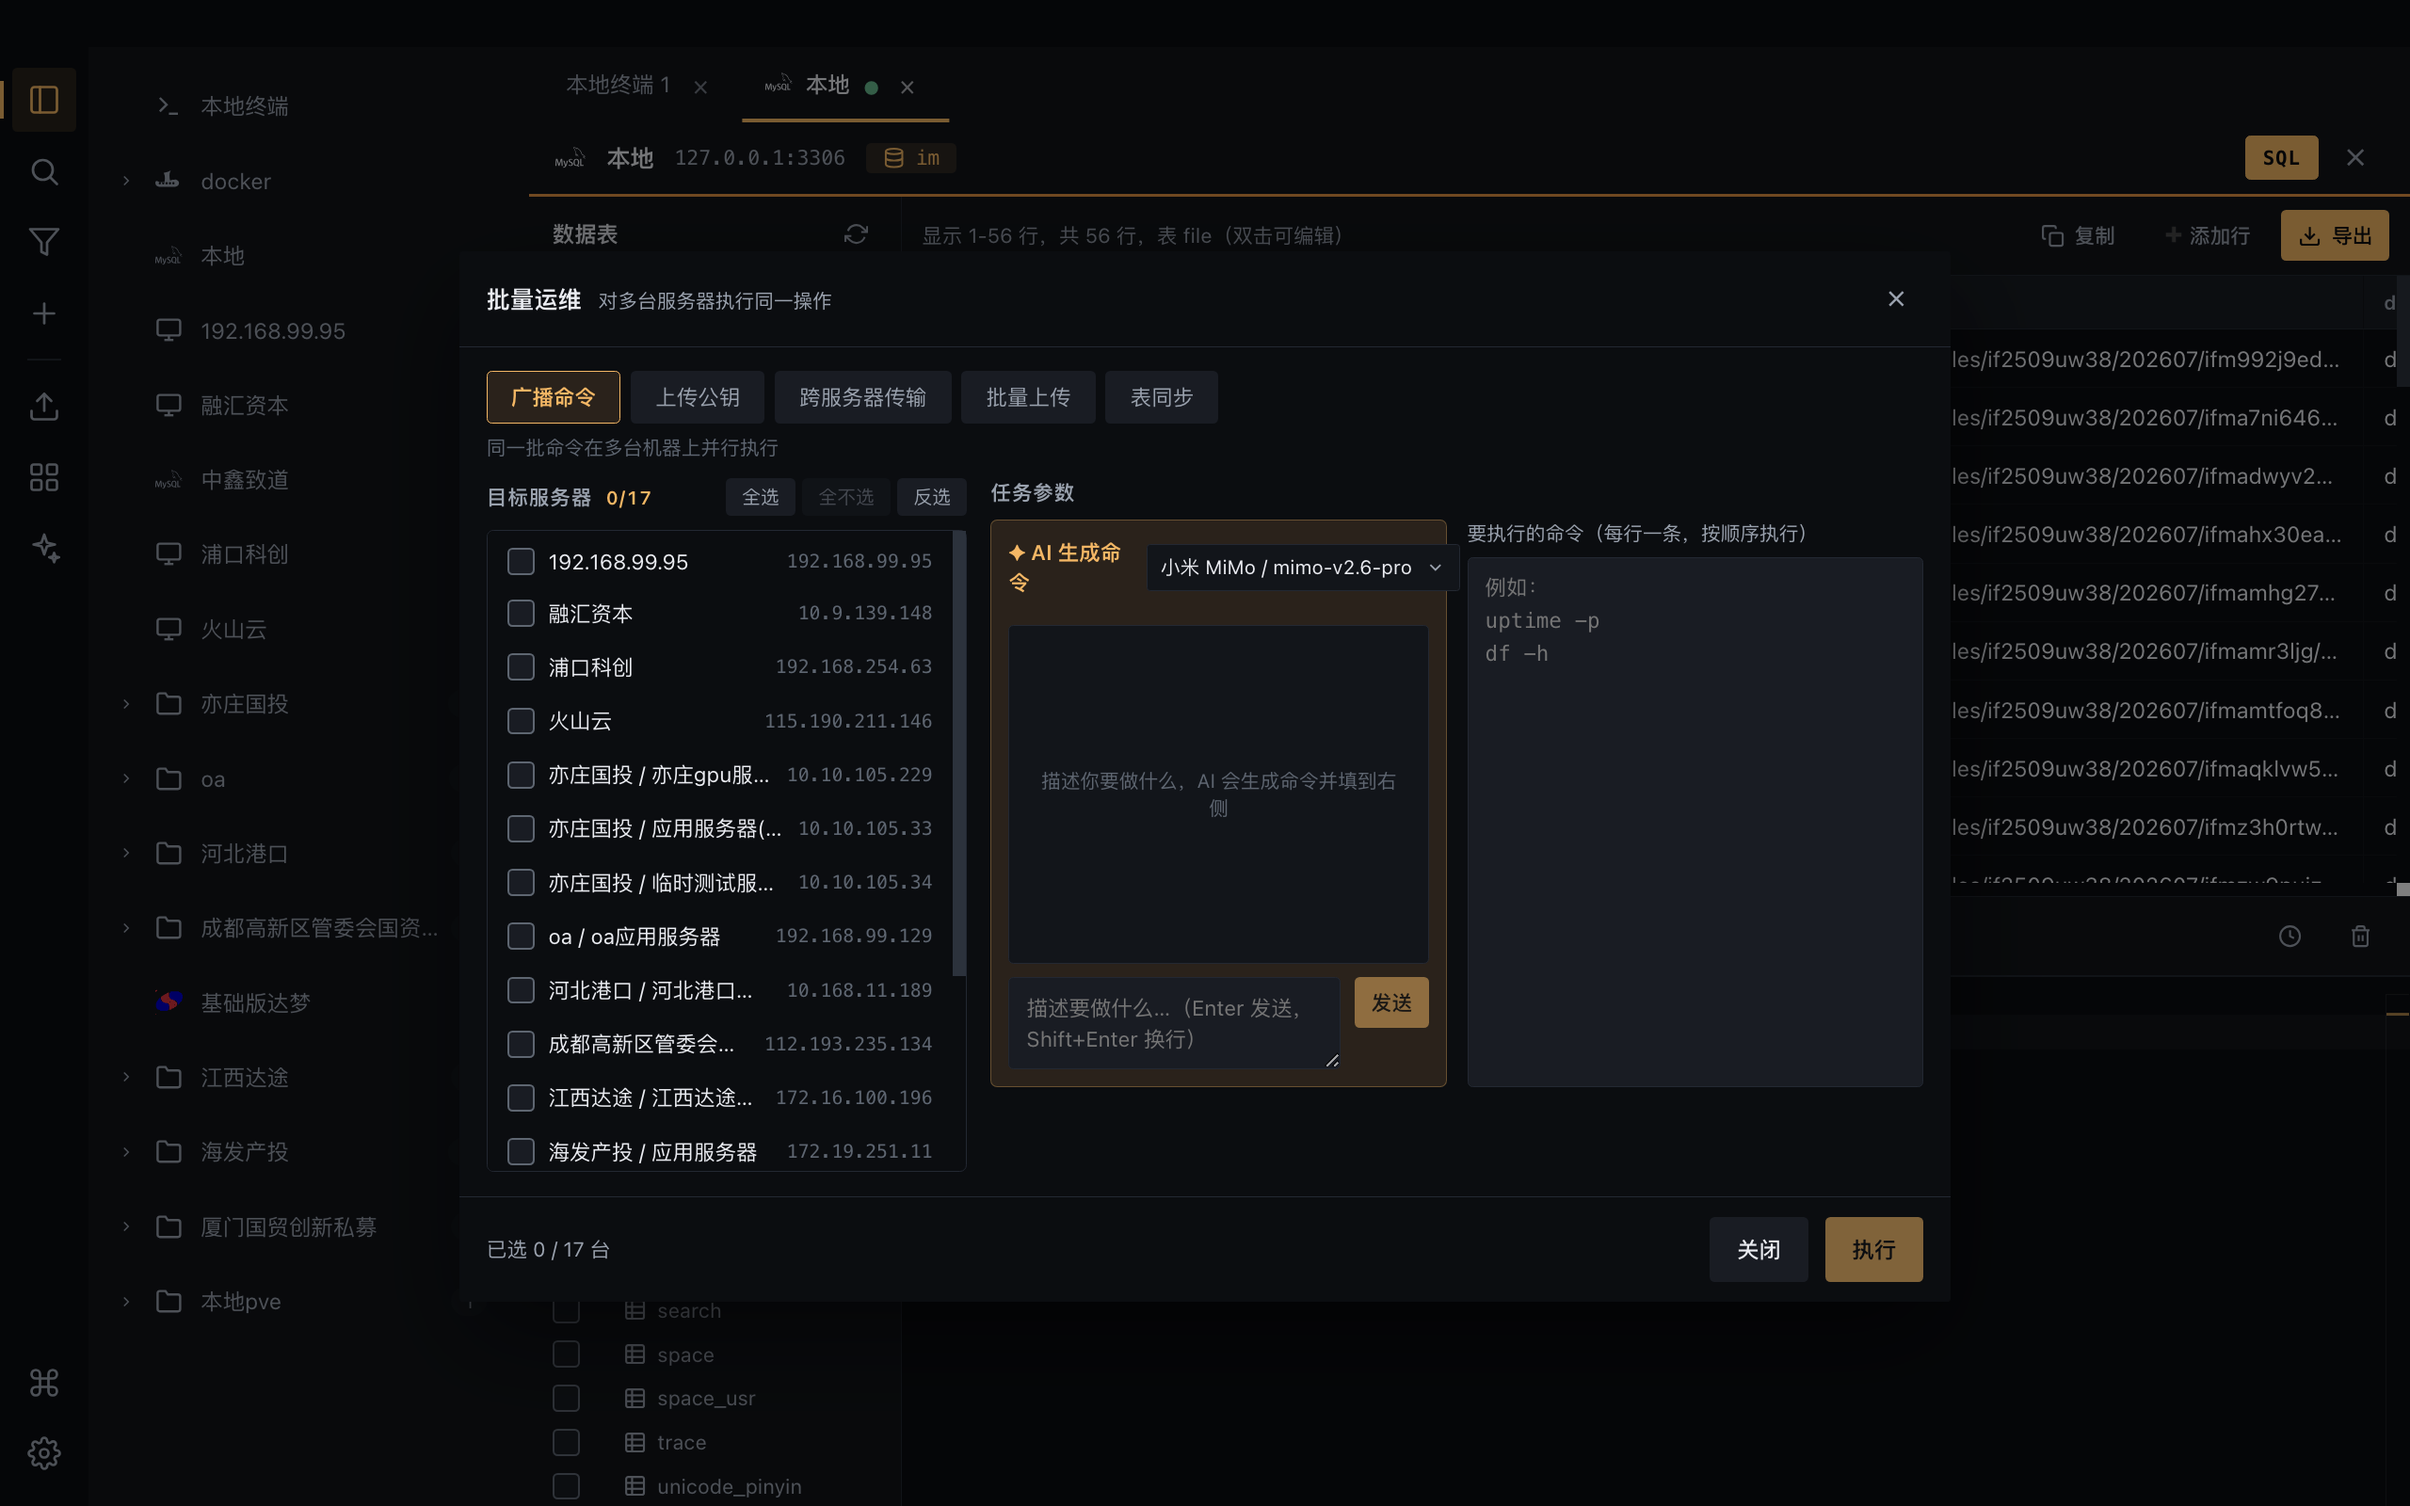
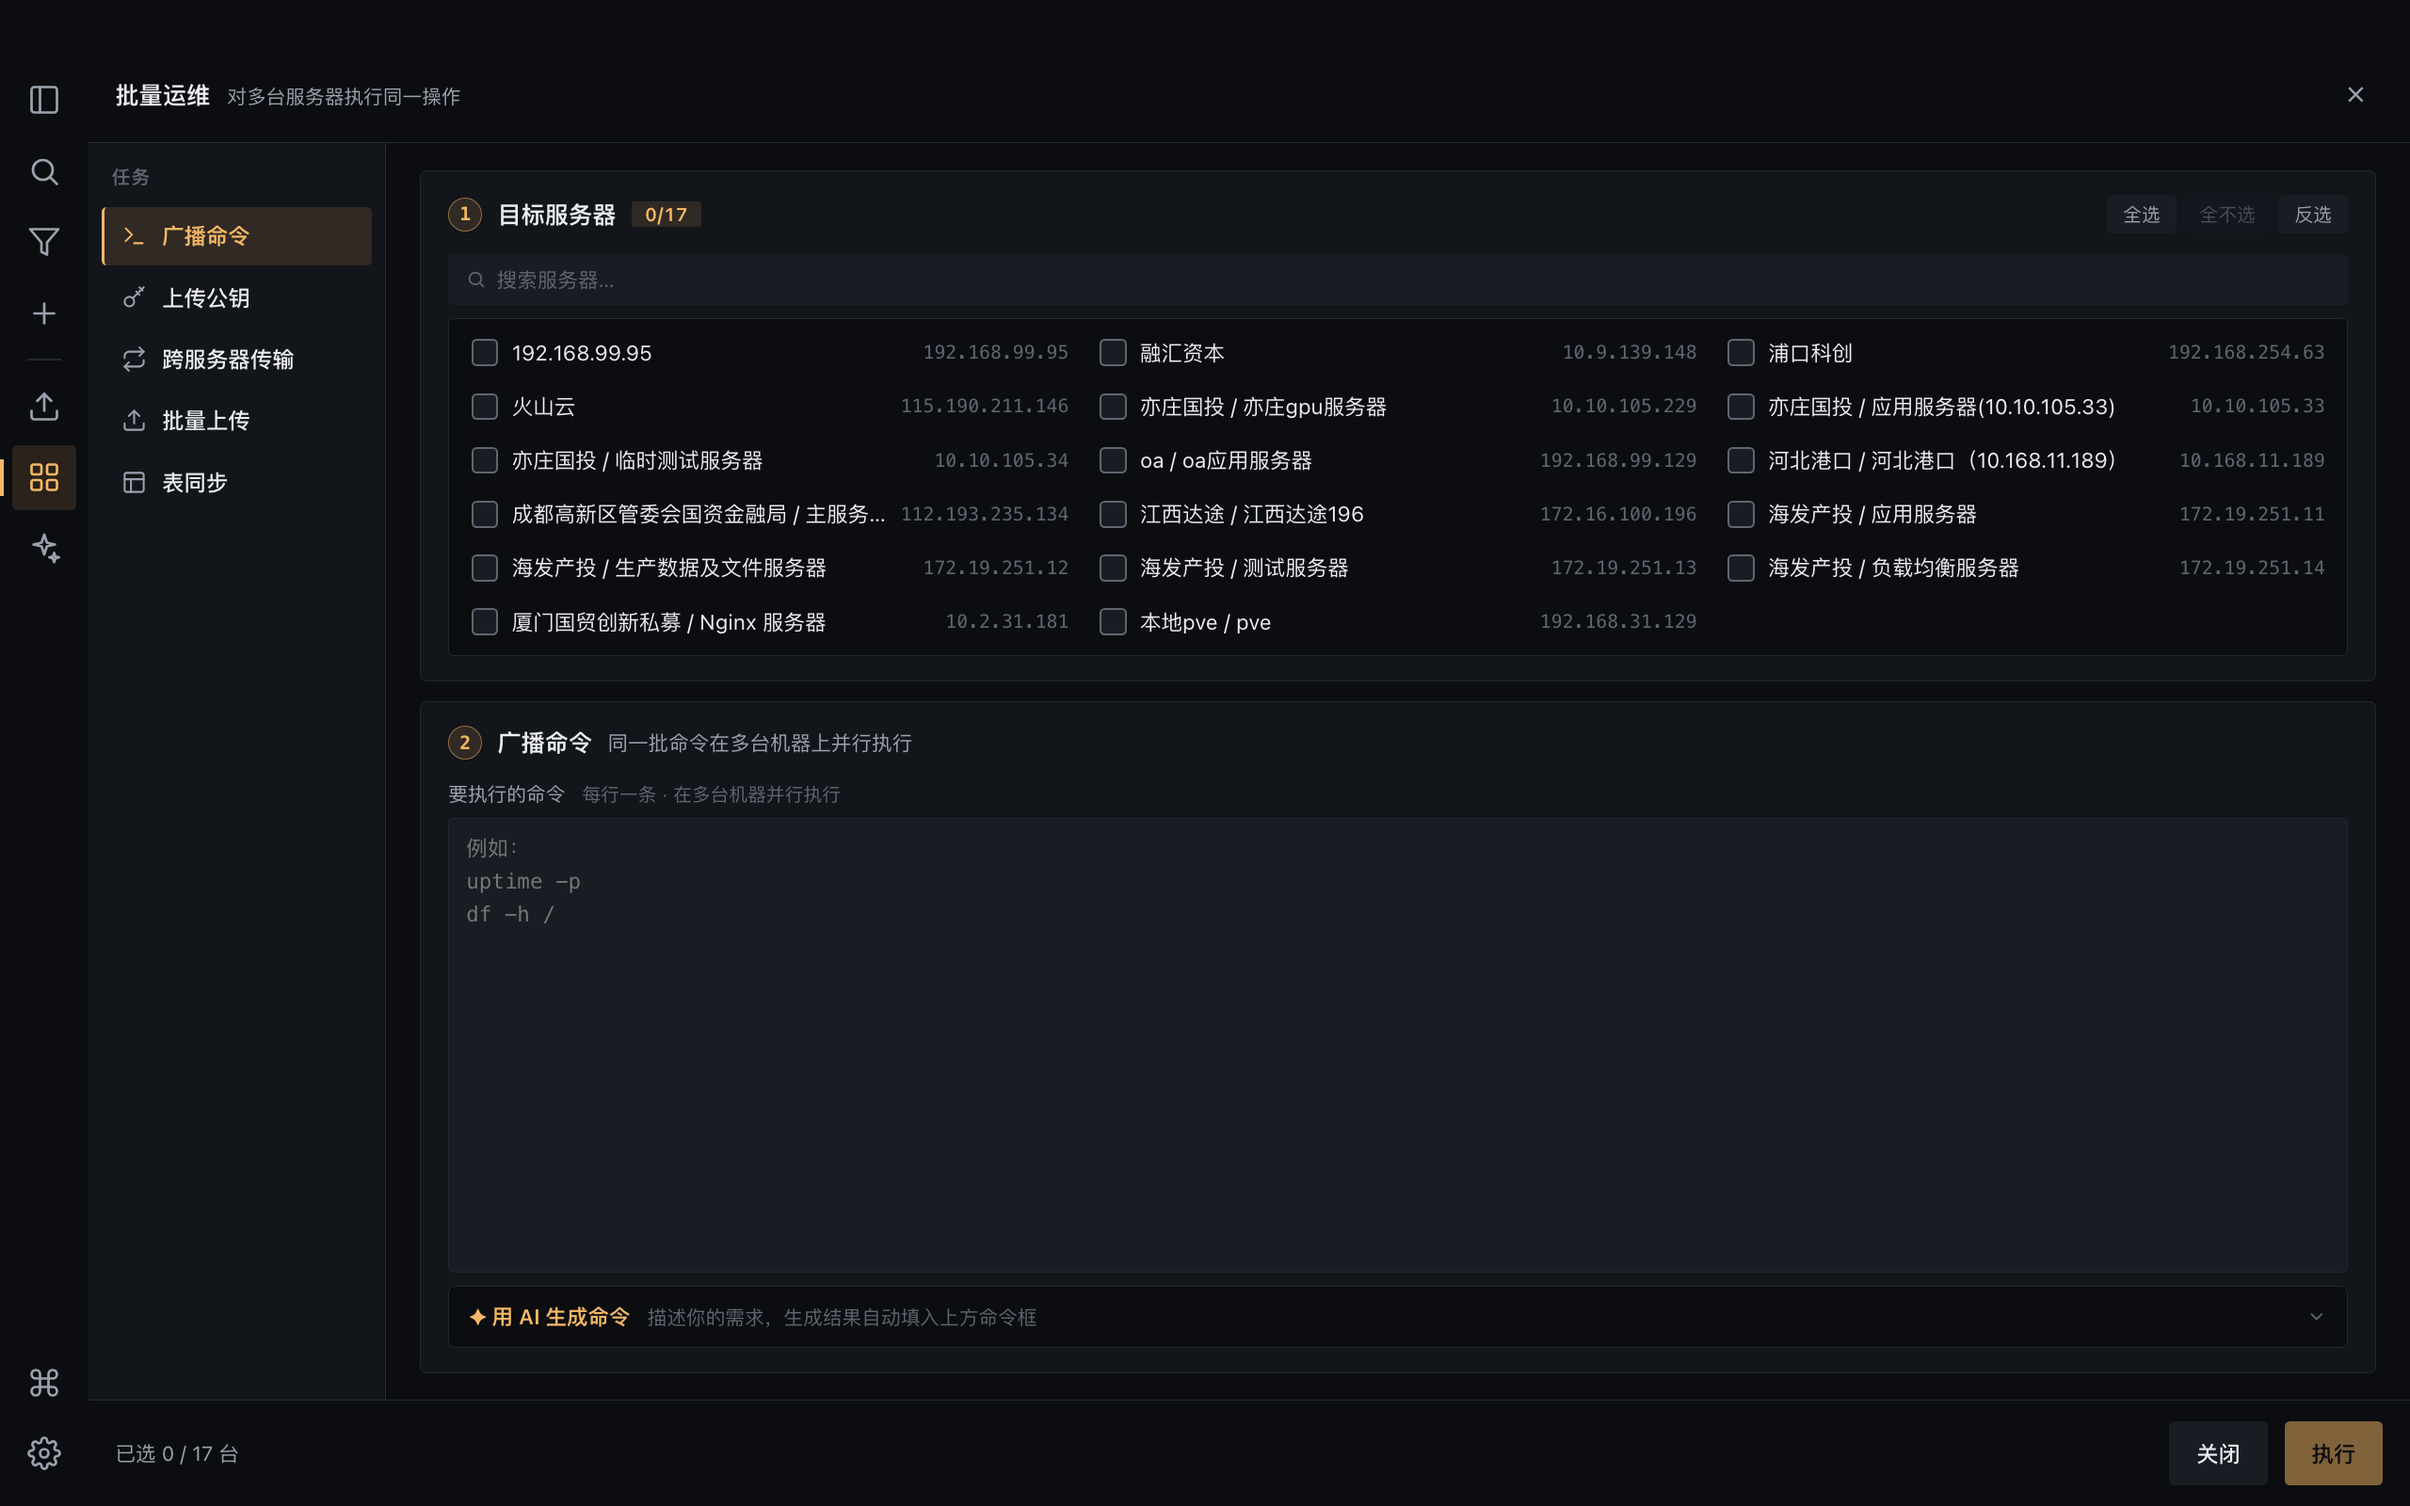
docs: v1.21.0 更新日志（批量运维页面化重构、图标重做），徽章与截图更新

diff --git a/CHANGELOG.md b/CHANGELOG.md
@@ -2,6 +2,22 @@
 
 版本号遵循 [语义化版本](https://semver.org/lang/zh-CN/)：新功能 +0.1.0、修复/样式 +0.0.1、不兼容改动 +1.0.0。
 
+## v1.21.0
+
+### 批量运维（重构为独立页面）
+
+- **从弹窗改为独立页面**：点击左侧导航轨的「批量运维」进入全屏页面（资产列表与终端标签与它无关），Esc 或导航轨按钮即可退出，不打断任何终端会话。
+- **卡片流布局**：按操作流程分为「① 目标服务器 → ② 任务参数」编号卡片，参数卡自动铺满剩余高度（命令框随窗口伸展）。
+- **任务导航**：五类任务（广播命令 / 上传公钥 / 跨服务器传输 / 批量上传 / 表同步）带图标竖排导航；目标服务器独立一栏（搜索过滤 + 双列列表 + 全选/反选）。
+- **广播页重写**：命令输入为主体，AI 生成命令收进折叠面板（描述需求自动填入命令框）。
+- **结果导出菜单**：完整显示 5 种格式（txt / csv / json / pdf / word），不再被弹窗裁剪，点击外部自动关闭。
+
+### 其他
+
+- **应用图标重做**：墨底 + 琥珀提示符与光标块，与界面同一视觉语言。
+- 资产列表顶部加 CodeShell 品牌头；滚动优化（滚轮阻尼、滚动条可见性）。
+- 下拉菜单按内容撑宽、空间不足自动向上展开（不遮挡输入区）。
+
 ## v1.20.1
 
 ### 修复

diff --git a/README.md b/README.md
@@ -5,7 +5,7 @@
   <p>
     <img alt="platform" src="https://img.shields.io/badge/platform-macOS%20%7C%20Windows-3e8bff" />
     <img alt="electron" src="https://img.shields.io/badge/Electron-30-47848f" />
-    <img alt="version" src="https://img.shields.io/badge/version-1.20.1-00b894" />
+    <img alt="version" src="https://img.shields.io/badge/version-1.21.0-00b894" />
     <img alt="license" src="https://img.shields.io/badge/license-Proprietary-lightgrey" />
   </p>
 </div>
